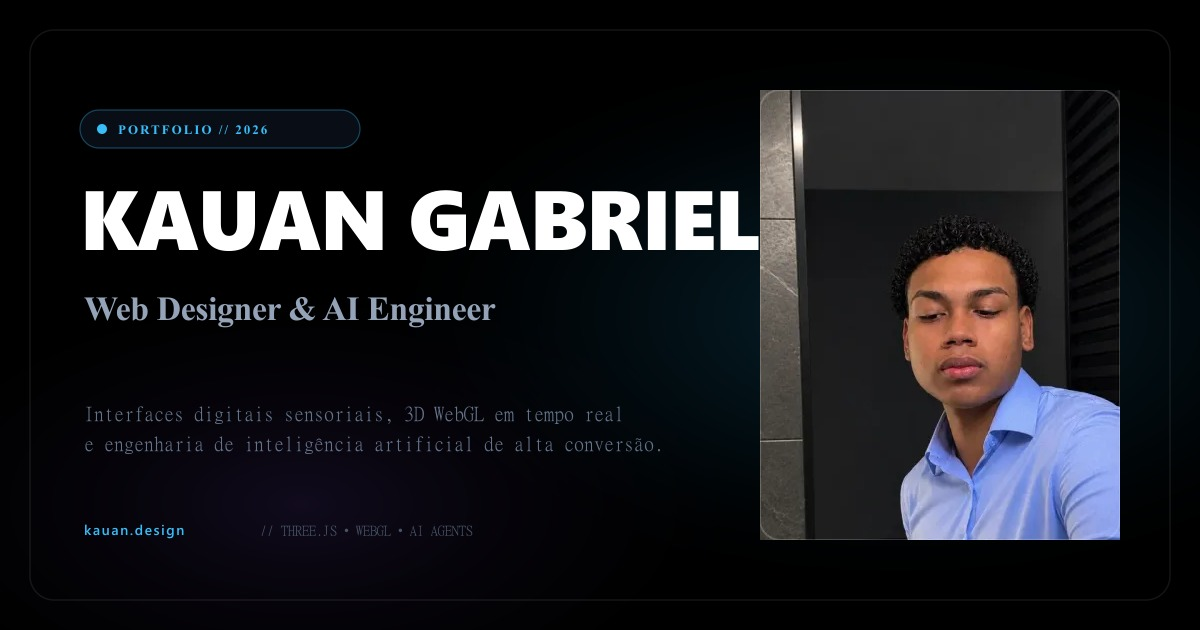
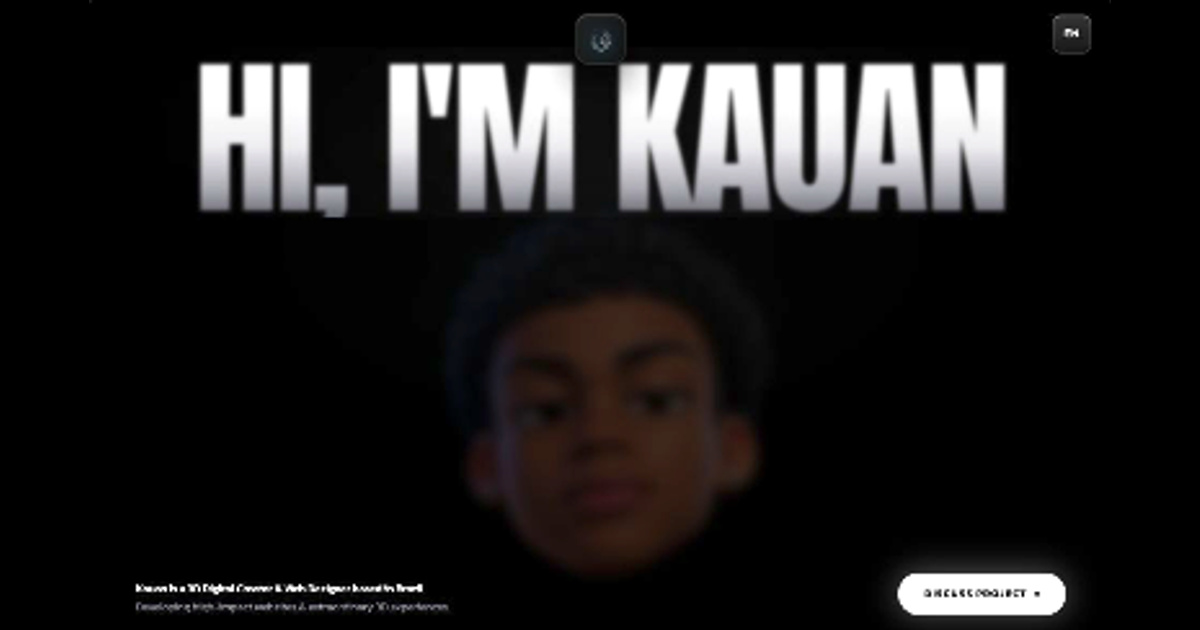
feat(seo): update Open Graph and Twitter card preview image to blurred hero aesthetic with direct vercel URL resolution

diff --git a/index.html b/index.html
@@ -20,12 +20,12 @@
 
     <!-- Open Graph / Facebook / WhatsApp -->
     <meta property="og:type" content="website" />
-    <meta property="og:url" content="https://kauan.design/" />
+    <meta property="og:url" content="https://kauan-design.vercel.app/" />
     <meta property="og:title" content="Kauan Gabriel | Web Designer &amp; AI Engineer" />
     <meta property="og:description" content="Interfaces digitais sensoriais, computação espacial 3D WebGL em tempo real e engenharia de inteligência artificial de alta conversão." />
     <meta property="og:site_name" content="Kauan Gabriel" />
-    <meta property="og:image" content="https://kauan.design/og-image.jpg" />
-    <meta property="og:image:secure_url" content="https://kauan.design/og-image.jpg" />
+    <meta property="og:image" content="https://kauan-design.vercel.app/og-image.jpg" />
+    <meta property="og:image:secure_url" content="https://kauan-design.vercel.app/og-image.jpg" />
     <meta property="og:image:type" content="image/jpeg" />
     <meta property="og:image:width" content="1200" />
     <meta property="og:image:height" content="630" />
@@ -36,10 +36,10 @@
 
     <!-- Twitter Cards -->
     <meta name="twitter:card" content="summary_large_image" />
-    <meta name="twitter:url" content="https://kauan.design/" />
+    <meta name="twitter:url" content="https://kauan-design.vercel.app/" />
     <meta name="twitter:title" content="Kauan Gabriel | Web Designer &amp; AI Engineer" />
     <meta name="twitter:description" content="Interfaces digitais sensoriais, computação espacial 3D WebGL em tempo real e engenharia de inteligência artificial de alta conversão." />
-    <meta name="twitter:image" content="https://kauan.design/og-image.jpg" />
+    <meta name="twitter:image" content="https://kauan-design.vercel.app/og-image.jpg" />
     <meta name="twitter:creator" content="@kauangabriel" />
 
     <!-- Structured Data (JSON-LD) for Google Rich Snippets & Business Entity -->
